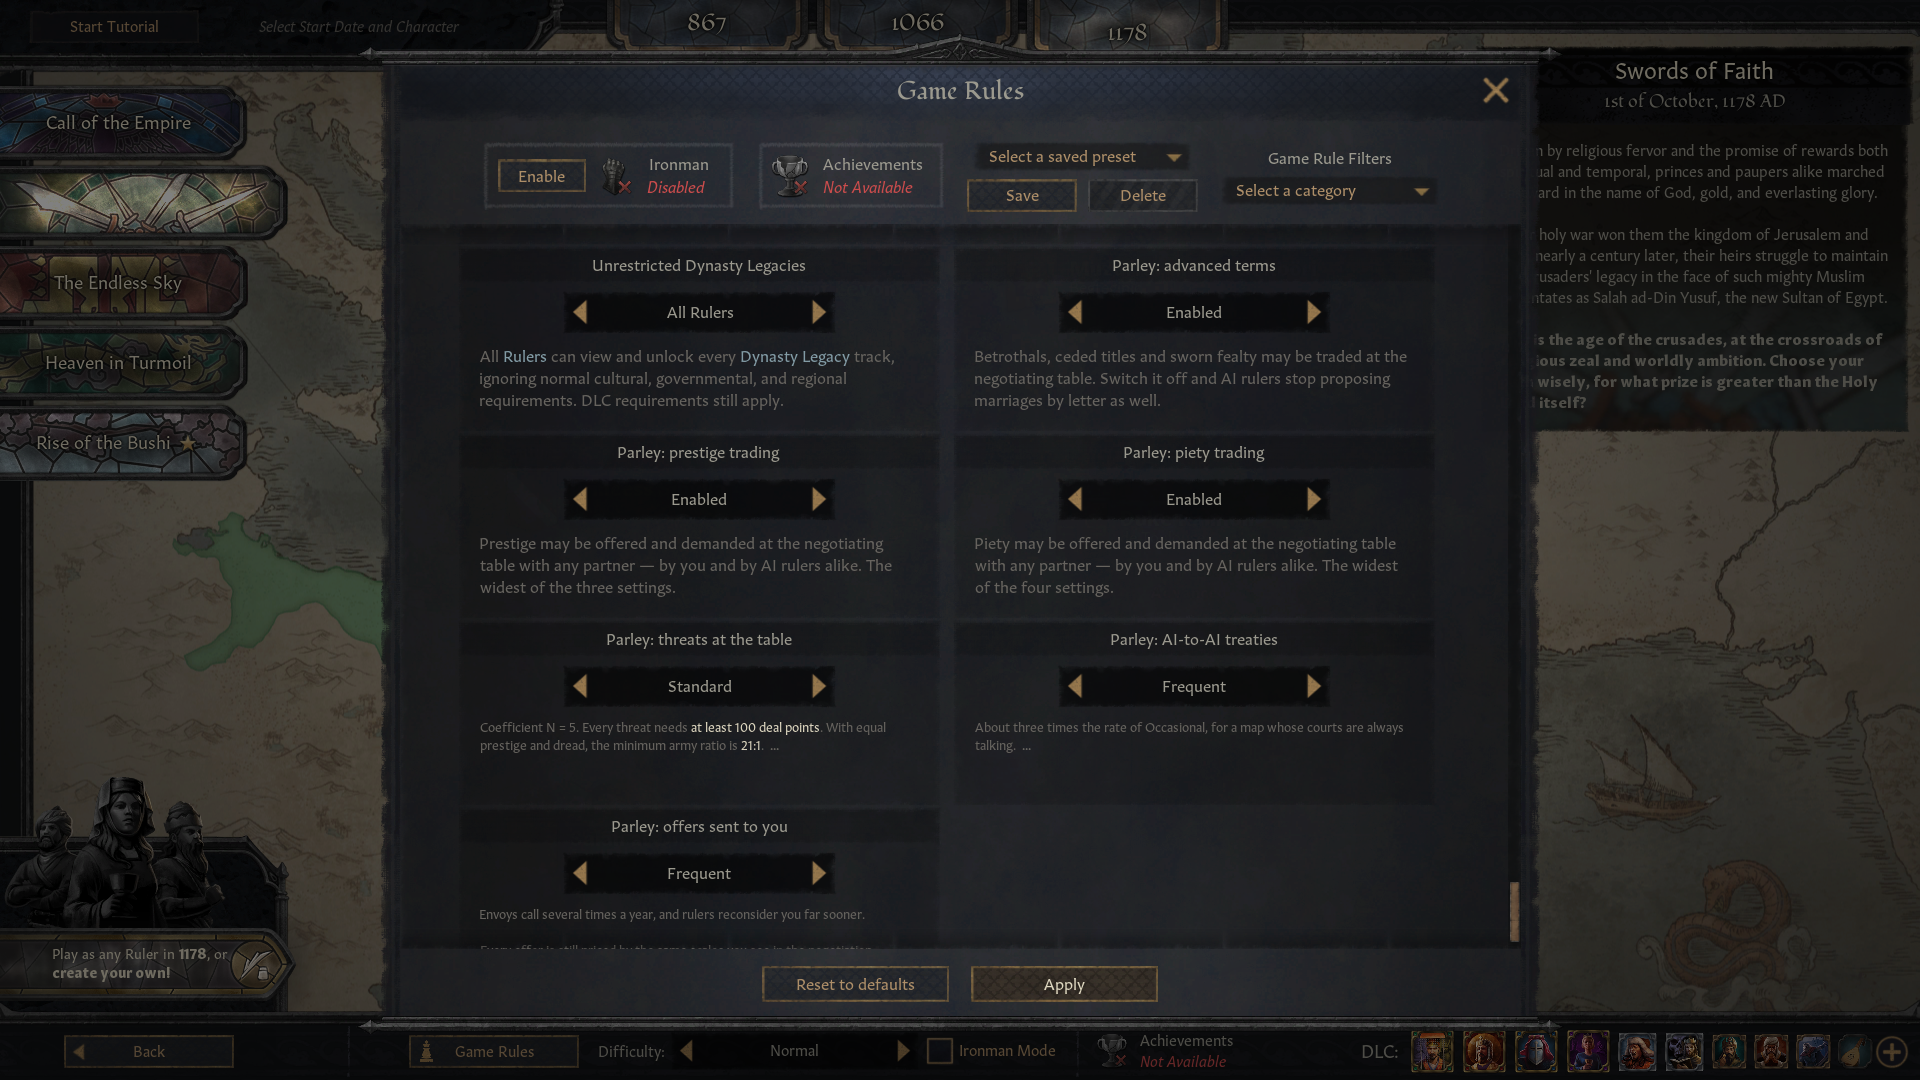
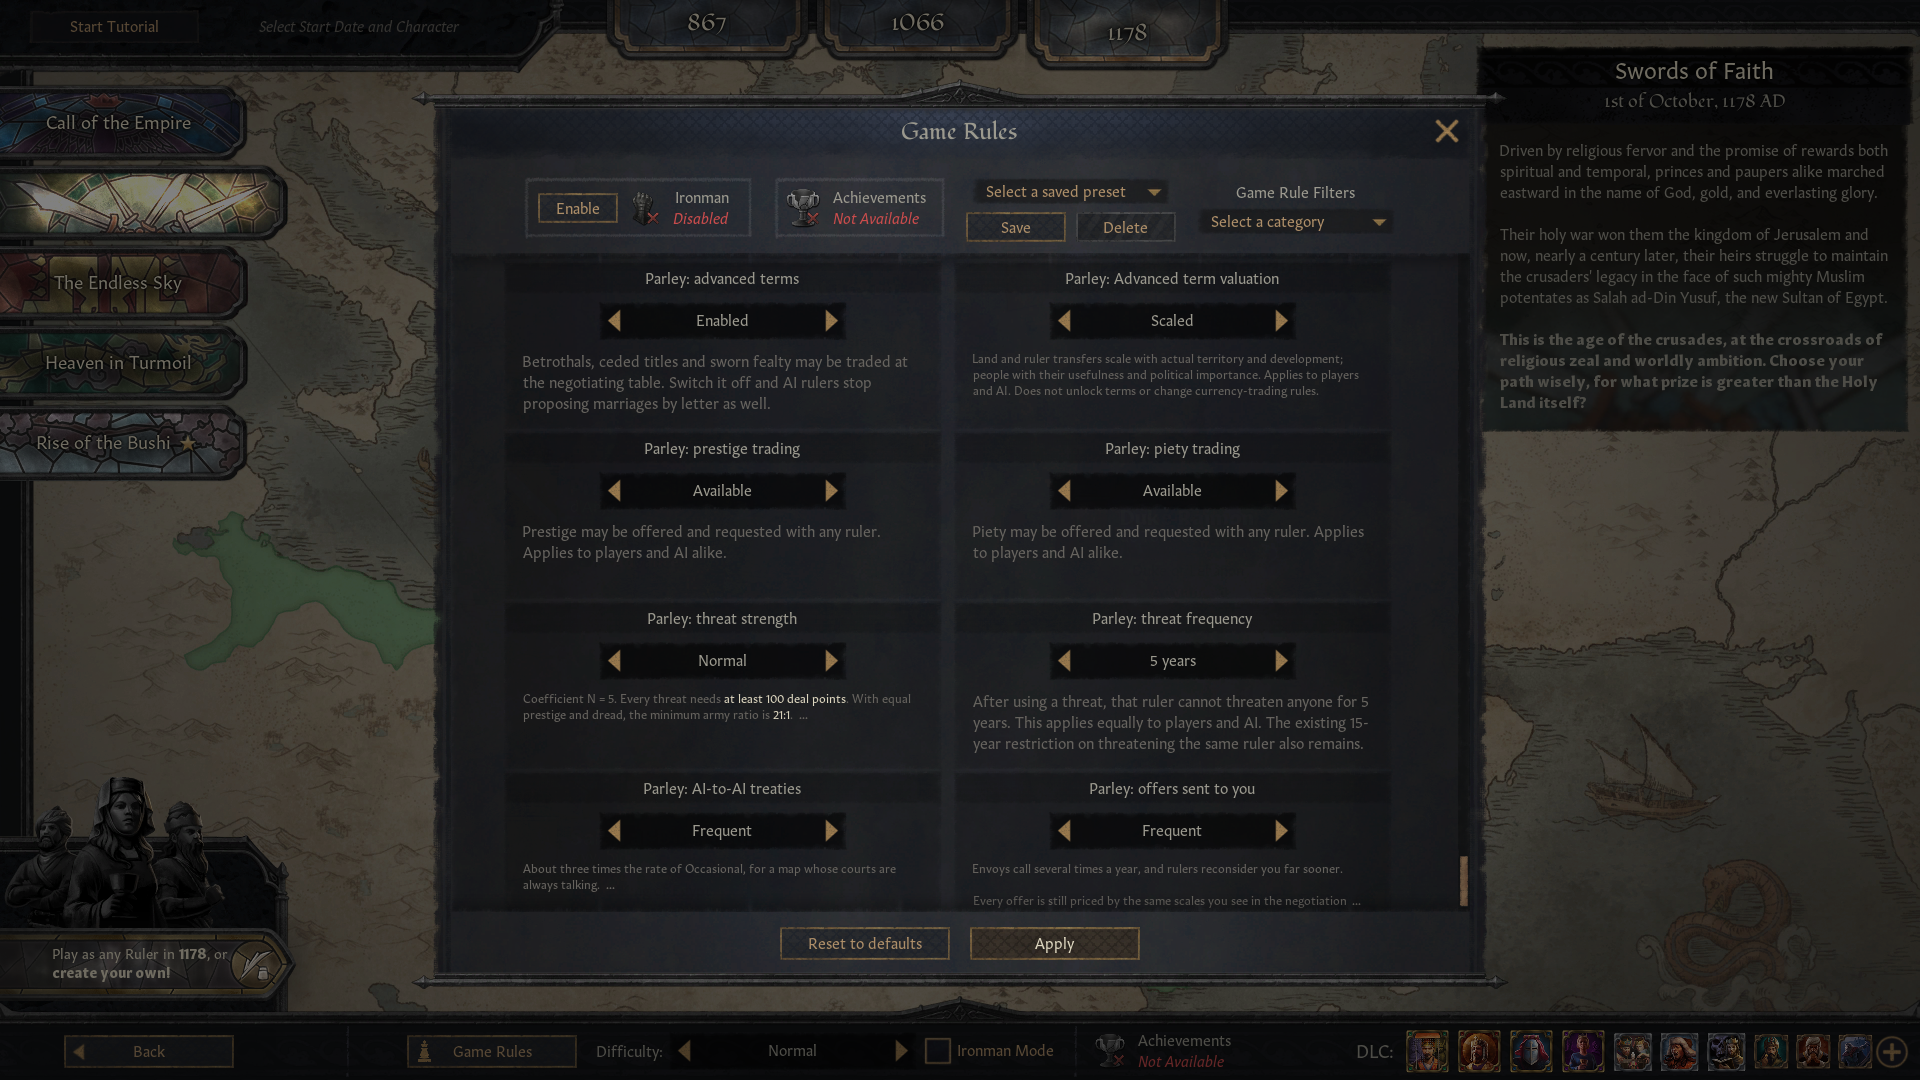
Replace Parley game-rules screenshot for 1.2.1

diff --git a/dev.md b/dev.md
@@ -61,6 +61,8 @@ The checks are source contracts and bounded models, not a CK3 parser or proof of
 
 Publication copy has one editable English source: `publishing/description.en.md`. The shared release-workspace wrapper renders **only Parley** with `--mod parley`; do not call the original family-wide renderer CLI for a scoped edit. The full game-rules guide lives in that canonical source. Steam and Paradox get the marked short summary and a link to the README guide; GitHub, Nexus and the preview get the full guide. Steam is validated against 8,000 UTF-8 bytes before outputs are written, and Paradox against its 10,000-character limit. Run `python -B -m unittest discover -s tests/publishing -v` for the renderer and `python -B -m unittest discover -s tests/release -v` for the numbered deployment-kit checks. Follow the existing release journal procedure after committing reviewed inputs; no tool in this preparation flow uploads a release.
 
+The `parley-rules-media-2026-10-06` metadata revision replaces only the selected game-rules screenshot and its provenance/caption. Resolve its current canonical working projection through the release registry before synchronizing future edits; older publication projections remain historical. The repository retains the user-supplied PNG at `publishing/screenshots/04-game-rules.png`; store galleries use a same-resolution JPEG derivative. The two negotiation screenshots retain their historical CK3 1.19.0.6 provenance. The replacement shows Scaled valuation and a five-year threat cooldown as selected examples, not defaults, and does not establish an exact capture-game patch. Runtime, mod version, current CK3 target and downloadable archive bytes are unchanged by this media revision.
+
 ## Parley 1.2.1 development
 
 2026-10-06: **Threat frequency** adds a per-aggressor global cooldown of 0

diff --git a/README.md b/README.md
@@ -212,7 +212,7 @@ Before removal, use **Fold Away the Negotiating Table** under **Mod Removal Deci
 
 Title transfers cannot be bundled with fealty or independence. Overlapping courtier and hostage selections can invalidate a package.
 
-Gallery images were captured on **CK3 1.19.0.6**; some interface details may differ. **Multiplayer and long campaigns remain unverified.**
+The negotiation screenshots were captured on **CK3 1.19.0.6**; some interface details may differ. **Multiplayer and long campaigns remain unverified.**
 
 ## Feedback and support
 
@@ -250,9 +250,9 @@ Captured on CK3 1.19.0.6: Offer gold and prestige in exchange for fealty, with a
 
 Captured on CK3 1.19.0.6: Other rulers make offers of their own: gold today in exchange for a favor later.
 
-![Captured on CK3 1.19.0.6: Choose which treaty terms are available and how often AI rulers negotiate.](publishing/screenshots/04-game-rules.png)
+![Parley 1.2.1 game rules: Scaled valuation and a five-year threat cooldown selected (not defaults).](publishing/screenshots/04-game-rules.png)
 
-Captured on CK3 1.19.0.6: Choose which treaty terms are available and how often AI rulers negotiate.
+Parley 1.2.1 game rules: Scaled valuation and a five-year threat cooldown selected (not defaults).
 
 ## Contributing
 

diff --git a/publishing/description.en.md b/publishing/description.en.md
@@ -217,7 +217,7 @@ Before removal, use **Fold Away the Negotiating Table** under **Mod Removal Deci
 
 Title transfers cannot be bundled with fealty or independence. Overlapping courtier and hostage selections can invalidate a package.
 
-Gallery images were captured on **CK3 1.19.0.6**; some interface details may differ. **Multiplayer and long campaigns remain unverified.**
+The negotiation screenshots were captured on **CK3 1.19.0.6**; some interface details may differ. **Multiplayer and long campaigns remain unverified.**
 
 ## Feedback and support
 
